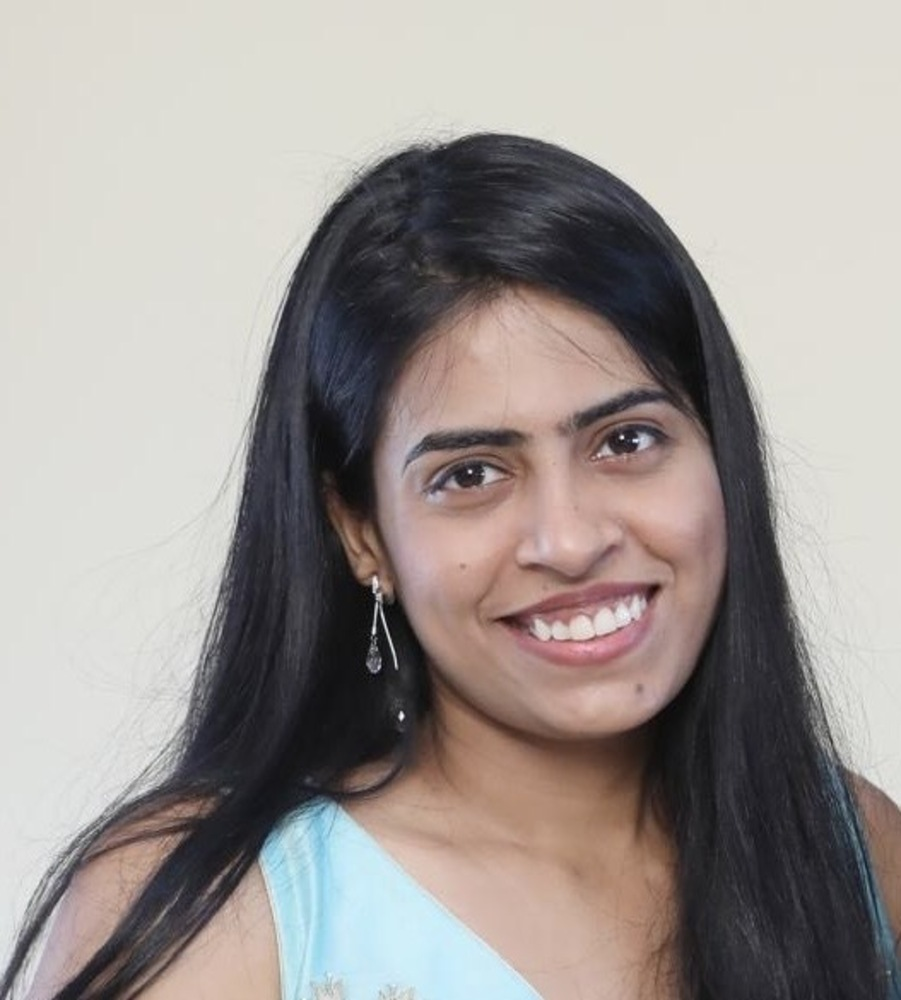
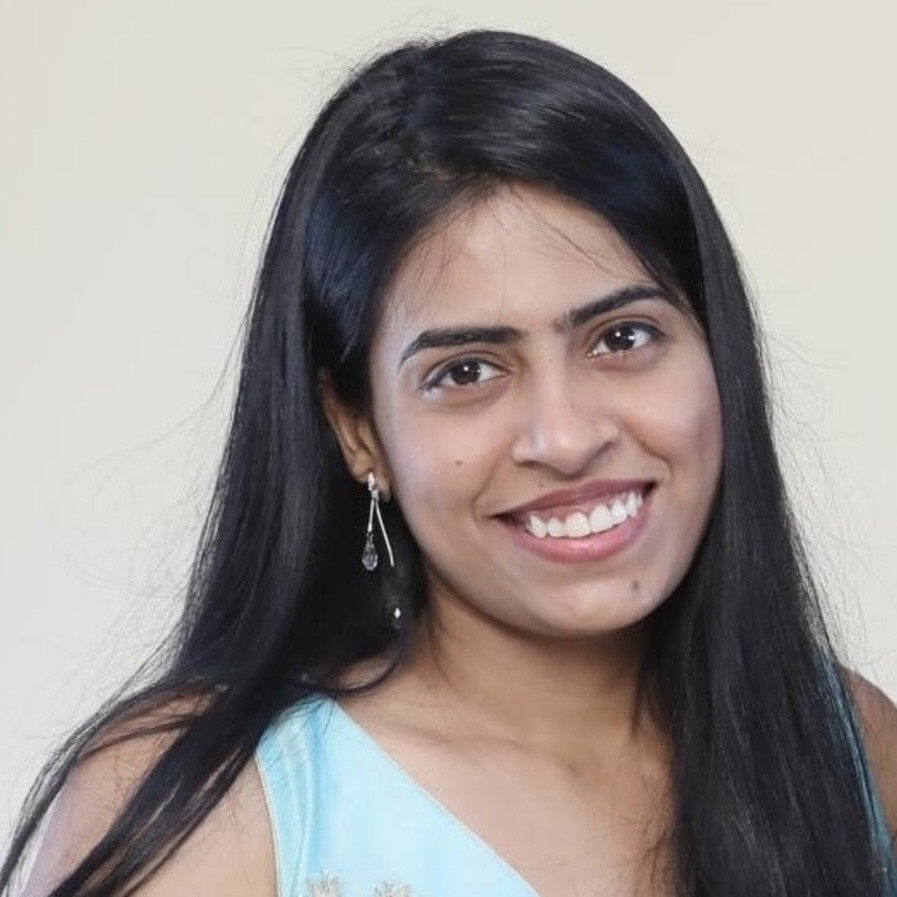
updated background and Adhithi image

diff --git a/css/custom.scss b/css/custom.scss
@@ -484,7 +484,7 @@ blockquote {
 
 @media (prefers-color-scheme: dark) {
   :root {
-    --bg: #111;
+    --bg: #000000;
     --surface: #151515;
     --surface-alt: #1f1f1f;
     --text: #eee;
